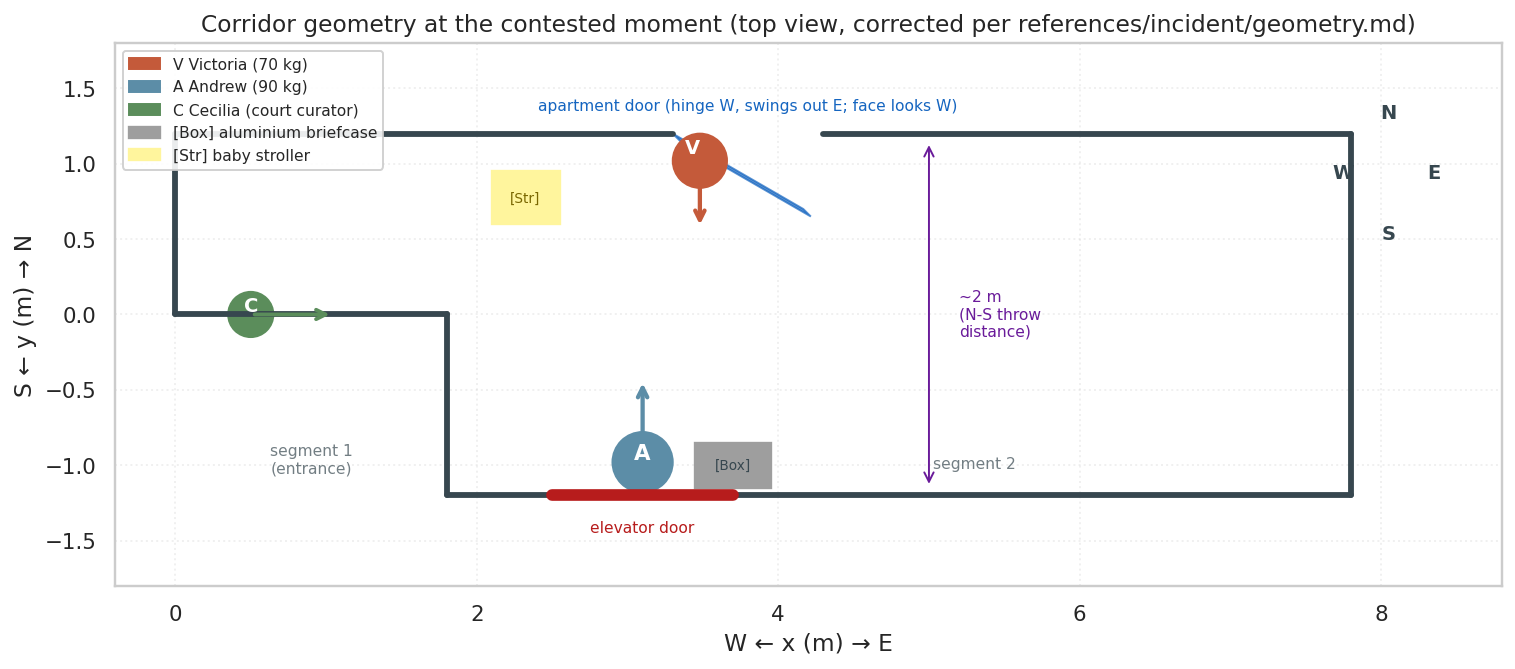
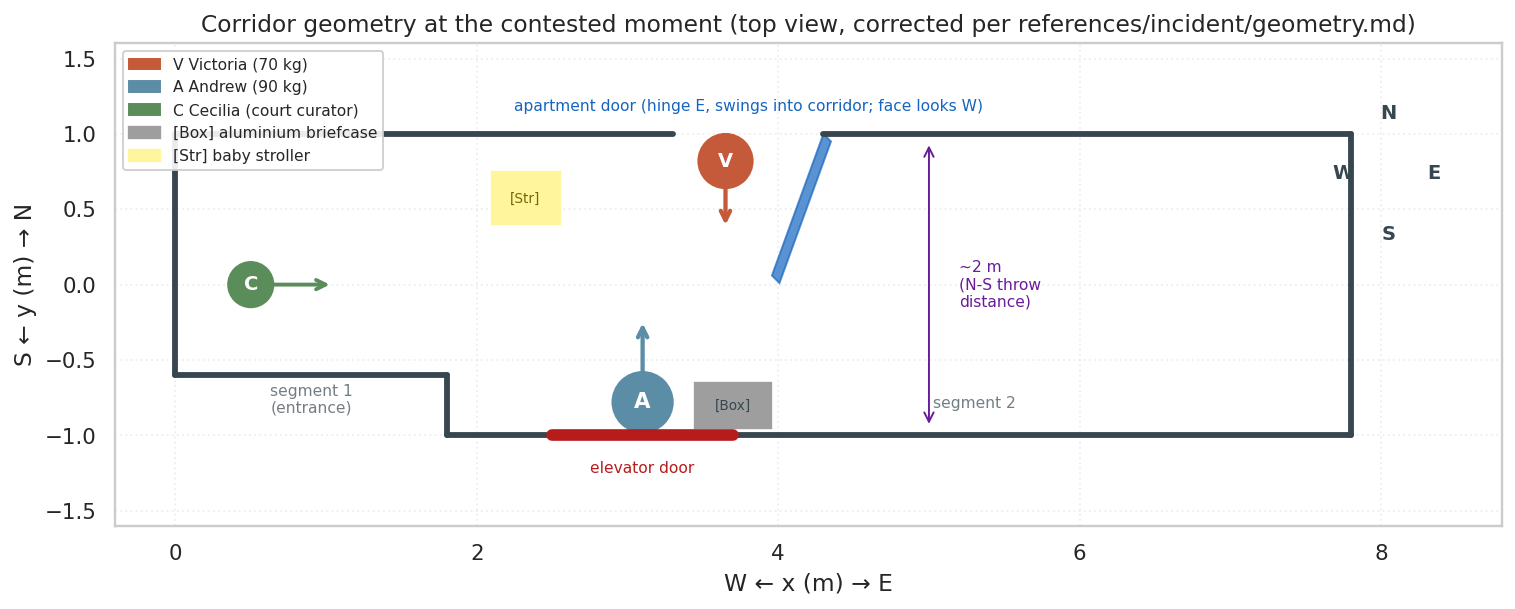
fix: corridor figure - door hinge E, more open, shallow S elbow, V centred, letters aligned
- Apt door hinge moved to the E edge of the opening; panel rotates CCW
  into the corridor (swing angle 110 deg). When open the door's face
  looks W, matching the actual incident.
- S-elbow depth reduced from ~1.2 m to ~0.4 m (segment 1 S wall at -0.6,
  segment 2 S wall at -1.0).
- Victoria moved closer to the centre of the apt door opening
  (apt_door_x - 0.15 instead of - 0.32).
- Letter labels V, A, C now centred on their actor circles with
  va='center' (previously offset upward by 0.02-0.05).

diff --git a/src/henryk_simulations/corridor/plots.py b/src/henryk_simulations/corridor/plots.py
@@ -280,8 +280,8 @@ def plot_corridor_overhead(
     # the same N wall; segment 2's S wall is further south than segment 1's.
     seg1_w = 1.8
     seg2_w = 6.0
-    seg1_height = 1.2  # narrower in N-S extent
-    seg2_height = 2.4  # wider (extends further south)
+    seg1_height = 1.6  # corridor width N-S in segment 1
+    seg2_height = 2.0  # segment 2 only ~0.4 m deeper to the S (shallow elbow)
     seg2_x0 = seg1_w
     total_w = seg1_w + seg2_w
 
@@ -309,12 +309,12 @@ def plot_corridor_overhead(
     # E end wall
     ax.plot([total_w, total_w], [s_seg2, n_wall], **wall_kw)
 
-    # Apartment door (on N wall) - hinged at the WEST edge of the doorway,
-    # swings out into the corridor with the panel ending up south-east of the
-    # hinge. When open, the door's face looks W (the side that faced the
-    # corridor when closed now faces west).
-    apt_door_hinge_x = apt_door_x - apt_door_w / 2
-    door_swing_angle = 30  # degrees from +x; only partly open (panel tip slightly SE of hinge)
+    # Apartment door (on N wall) - hinged at the EAST edge of the doorway,
+    # swings into the corridor with the panel ending up south-west of the
+    # hinge. The free end of the open door rests near the corridor floor at
+    # the W edge of the original doorway opening.
+    apt_door_hinge_x = apt_door_x + apt_door_w / 2
+    door_swing_angle = 110  # measured from +x; panel mostly open, pointing SSW from E hinge
     angle_rad = np.deg2rad(door_swing_angle)
     door_panel_tip = (
         apt_door_hinge_x + apt_door_w * np.cos(angle_rad),
@@ -335,7 +335,7 @@ def plot_corridor_overhead(
     ax.text(
         apt_door_x,
         n_wall + 0.15,
-        "apartment door (hinge W, swings out E; face looks W)",
+        "apartment door (hinge E, swings into corridor; face looks W)",
         ha="center",
         fontsize=8,
         color="#1565c0",
@@ -364,7 +364,7 @@ def plot_corridor_overhead(
     # Actors -----------------------------------------------------------------
     # V (Victoria): at apartment door W envelope (opposite the E hinge),
     # facing S (downward)
-    v_xy = (apt_door_x - apt_door_w / 2 + 0.18, n_wall - 0.18)
+    v_xy = (apt_door_x - 0.15, n_wall - 0.18)
     v_circle = mpatches.Circle(
         v_xy, 0.18, color="#c45a3a", label=f"V Victoria ({bodies.m_mass:.0f} kg)"
     )
@@ -376,10 +376,11 @@ def plot_corridor_overhead(
         arrowprops={"arrowstyle": "->", "color": "#c45a3a", "lw": 2.2},
     )
     ax.text(
-        v_xy[0] - 0.05,
-        v_xy[1] + 0.05,
+        v_xy[0],
+        v_xy[1],
         "V",
         ha="center",
+        va="center",
         fontweight="bold",
         color="white",
         fontsize=10,
@@ -398,7 +399,14 @@ def plot_corridor_overhead(
         arrowprops={"arrowstyle": "->", "color": "#5c8da7", "lw": 2.2},
     )
     ax.text(
-        a_xy[0], a_xy[1] + 0.02, "A", ha="center", fontweight="bold", color="white", fontsize=11
+        a_xy[0],
+        a_xy[1],
+        "A",
+        ha="center",
+        va="center",
+        fontweight="bold",
+        color="white",
+        fontsize=11,
     )
 
     # Cecilia: in segment 1, facing E (rightward)
@@ -412,7 +420,14 @@ def plot_corridor_overhead(
         arrowprops={"arrowstyle": "->", "color": "#5b8d5b", "lw": 2.0},
     )
     ax.text(
-        c_xy[0], c_xy[1] + 0.02, "C", ha="center", fontweight="bold", color="white", fontsize=10
+        c_xy[0],
+        c_xy[1],
+        "C",
+        ha="center",
+        va="center",
+        fontweight="bold",
+        color="white",
+        fontsize=10,
     )
 
     # Props ------------------------------------------------------------------